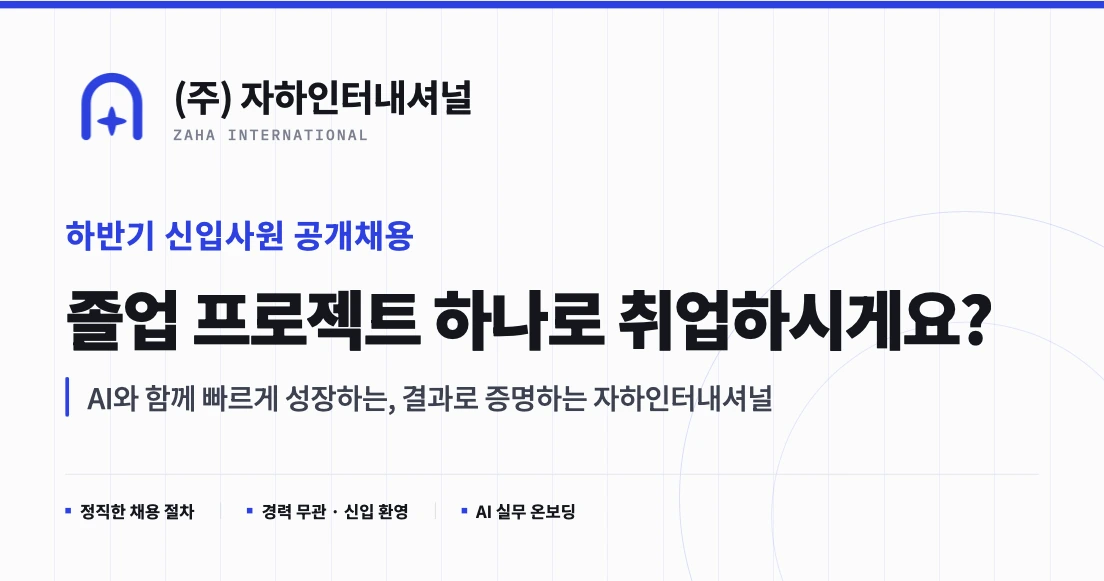
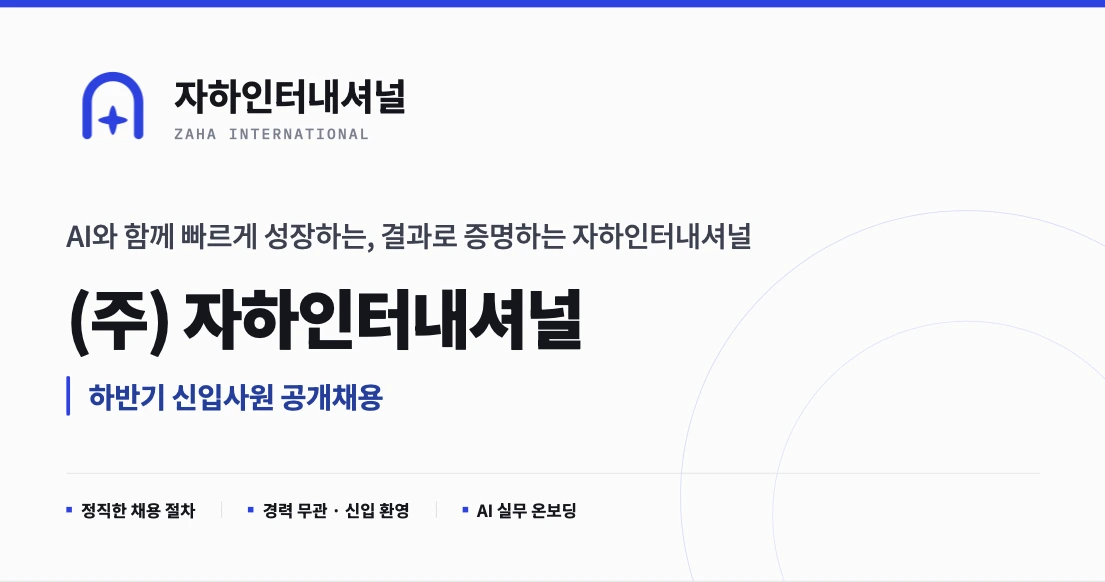
feat: og 이미지& 오타 수정

diff --git a/index.html b/index.html
@@ -23,7 +23,7 @@
   <div class="wrap">
     <a class="brand" href="#top">
       <img src="zaha_intl_logo.webp" alt="자하인터내셔널 로고">
-      <span>자하인터내셔널</span>
+      <span>자하인터내셔널 채용</span>
     </a>
     <a class="btn" href="#apply">지원하기</a>
   </div>
@@ -34,7 +34,7 @@
   <section class="hero">
     <div class="wrap">
       <img class="logo-mark" src="zaha_intl_logo.webp" alt="자하인터내셔널 로고">
-      <span class="label">이니로 소속 · 2026년 하반기 공채</span>
+      <span class="label">이니로 그룹 계열사 · 2026년 하반기 공채</span>
       <h1>(주) 자하인터내셔널<br>신입사원 공개채용</h1>
       <p class="sub">AI와 함께, 빠르게 성장하려면</p>
       <a class="btn btn-lg" href="#apply">지원하기</a>
@@ -103,7 +103,7 @@
         <ul>
           <li class="fade"><strong>온보딩</strong>아이템 결정 방법론과 AI 개발 워크플로우를 간단하게 배워요. 이후 약 1주간 자신의 아이템을 분석해요.</li>
           <li class="fade"><strong>피칭 데이</strong>PO(프로덕트 오너)가 되고 싶은 멤버가 자신의 아이템을 발표해요. <b>피칭해서 PO가 되거나, 공감하는 아이템에 합류하거나</b> — 둘 중 하나를 선택하면 돼요.</li>
-          <li class="fade"><strong>주제</strong><제한은 없어요. 로봇, 핀테크 앱, 웹서비스, 게임 모두 환영이에요.</li>
+          <li class="fade"><strong>주제</strong><b>제한은 없어요.</b> 로봇, 핀테크 앱, 웹서비스, 게임 모두 환영이에요.</li>
           <li class="fade"><strong>코워킹 데이</strong>주 1회 · 2시간 · 요일은 멤버 일정에 맞춰 결정 — <b>이 팀의 유일한 고정 일정</b>이에요. 별도 정기 회의나 작업 시간은 자율이에요. 매주 정해진 요일에 모여 각자의 프로덕트를 만들고, 초반 15분은 사일로별로 지난주 한 것 · 이번 주 할 것을 모두와 공유해요.</li>
           <li class="fade"><strong>데모데이</strong>총 2회의 데모데이에서는 중간 · 최종 결과물을 시연하고, 출시 후에는 사용자 피드백을 함께 확인해요.</li>
           <li class="fade"><strong>AI 활용</strong><b>'AI 도구 사용을 전제'</b>로 개발해요. 경험의 공백을 AI로 압축해 출시까지 도달하는 것이 이 팀의 방식이에요. 단, <b>AI가 작성한 코드라도 본인이 설명하지 못하면 본인의 코드가 아니에요.</b></li>
@@ -150,7 +150,7 @@
 
   <section>
     <div class="wrap">
-      <h2 class="fade">이런 분을 찾아요</h2>
+      <h2 class="fade">이런 분과 함께하고 싶어요</h2>
       <div class="req-grid">
         <div class="req-col fade">
           <h3>필수</h3>
@@ -192,9 +192,9 @@
       <div class="list-block bulleted">
         <ul>
           <li class="fade"><b>지원서에는 만들고 싶은 아이템 1개를 꼭 적어주세요.</b> 확정이 아니어도 괜찮아요.</li>
-          <li class="fade">직접 만들어보거나 완주해본 경험이 있다면 결과물과 함께 적어주세요 — <b>규모는 중요하지 않아요.</b></li>
-          <li class="fade">마지막으로 간단한 포부나 자신의 이야기를 간략하게 적어주시면 돼요.</li>
-          <li class="fade"><b>10분 대화는 면접이 아니에요.</b> 만들고 싶은 게 뭔지, 코워킹 데이에 시간이 되는지 확인하는 편한 자리예요. 학교에서 만나거나 통화로 진행해요.</li>
+          <li class="fade"><b>직접 만들어보거나 완주해본 경험이 있다면 결과물과 함께 적어주세요</b> — 규모는 중요하지 않아요.</li>
+          <li class="fade">마지막으로 <b>간단한 포부나 자신의 이야기를 간략하게</b> 적어주시면 돼요.</li>
+          <li class="fade"><b>10분 대화는 면접이 아니에요.</b> 만들고 싶은 게 뭔지, 코워킹 데이에 시간이 되는지 확인하는 편한 자리예요. 학교에서 진행해요.</li>
         </ul>
       </div>
       <div class="apply-cta fade">
